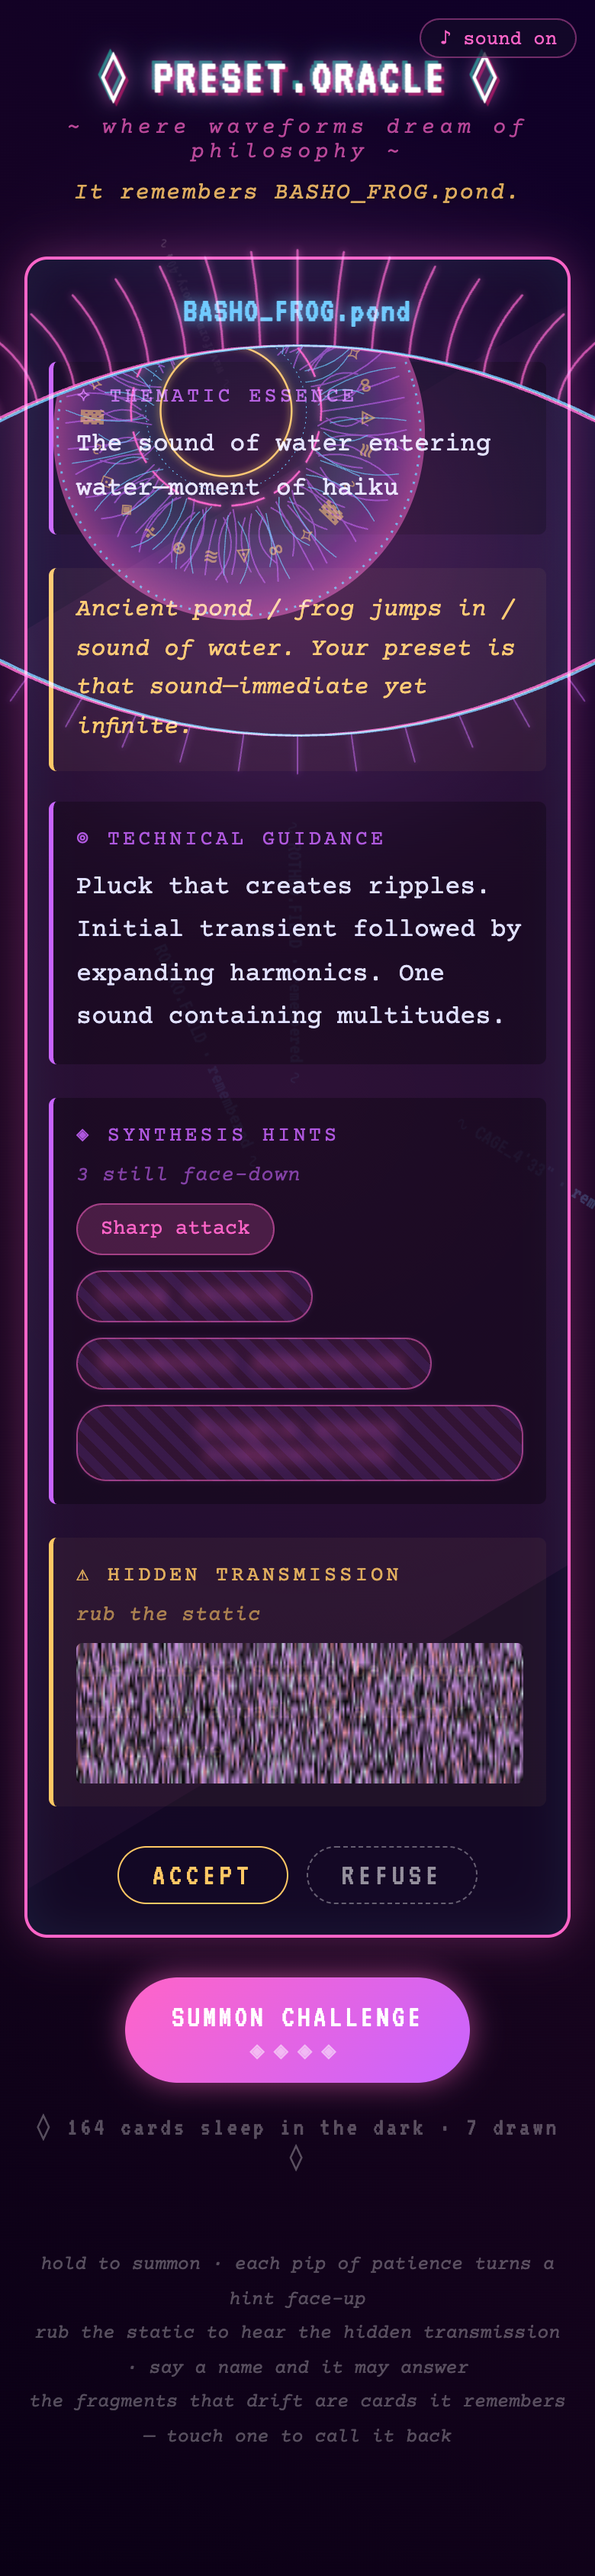
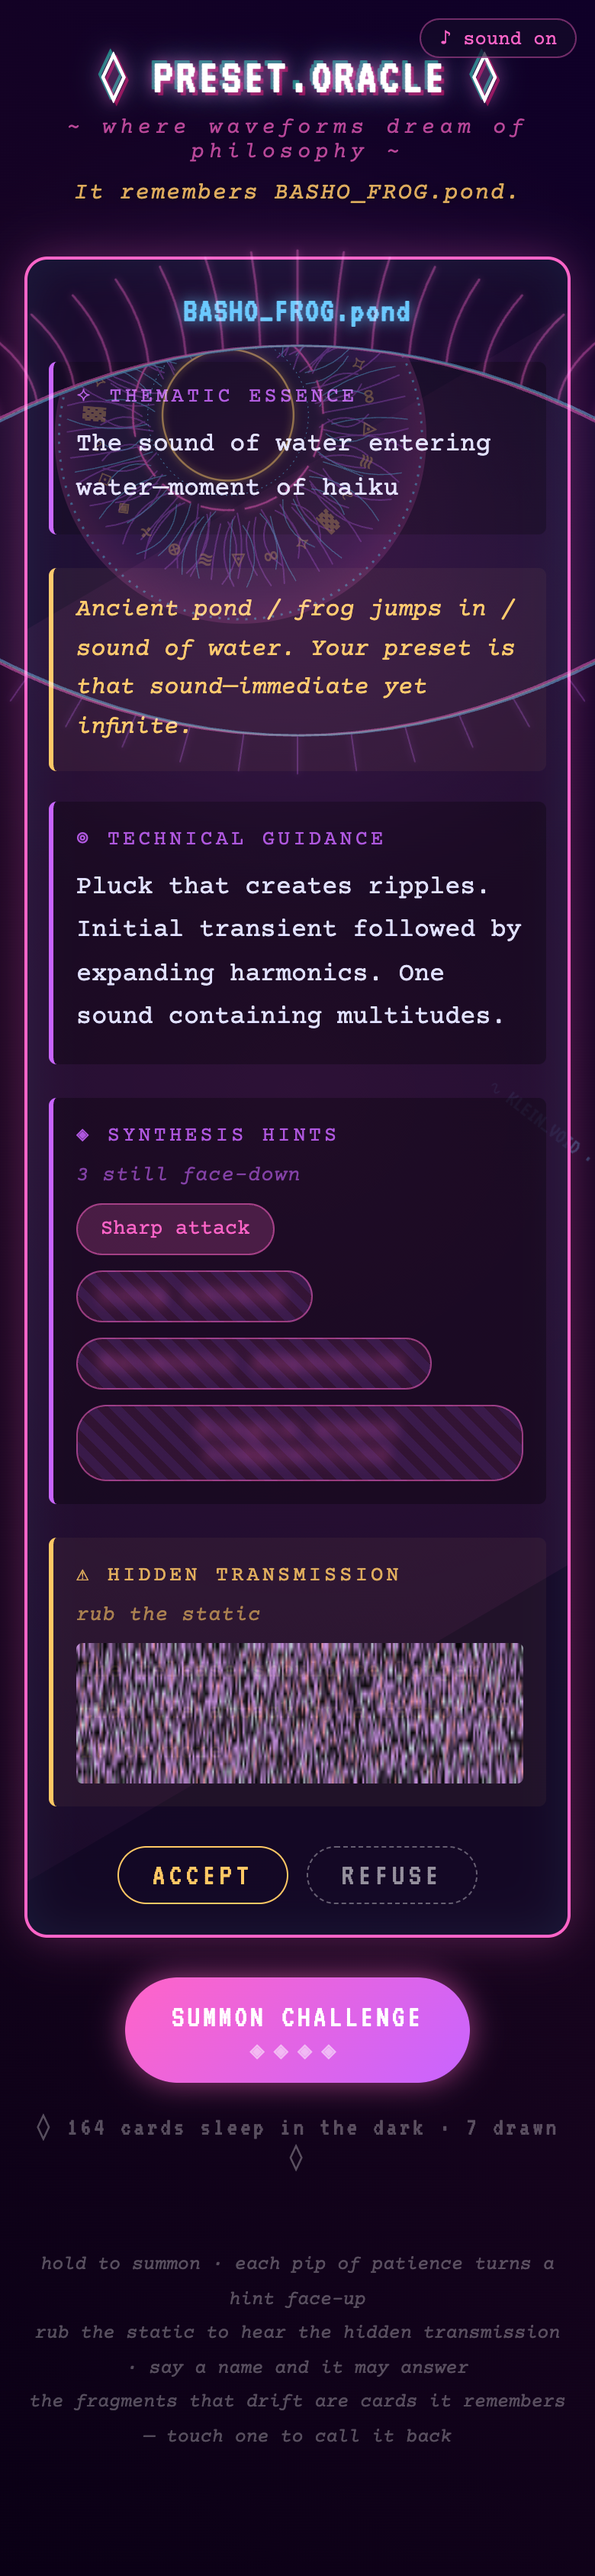
steward(Preset Oracle): the eye made more transparent: the layer at 55%, a lighter iris wash, a fainter doze
Palace-Kind: steward
Palace-Verify: verified
Palace-Author: claude

diff --git a/Projects/Preset Oracle/oracle/Preset Oracle — the oracle.html b/Projects/Preset Oracle/oracle/Preset Oracle — the oracle.html
@@ -57,10 +57,10 @@ body {
    hole — whatever the pointer rests on is seen through it, clear. */
 #bigeye {
   position: fixed; left: 50%; top: 47%; width: min(125vw, 1500px); height: auto; aspect-ratio: 2 / 1;
-  transform: translate(-50%, -50%); z-index: 900; pointer-events: none; mix-blend-mode: screen;
+  transform: translate(-50%, -50%); z-index: 900; pointer-events: none; mix-blend-mode: screen; opacity: .55;
   overflow: visible; transition: opacity 1.4s ease, filter 1.4s ease;
 }
-#bigeye.dozing { opacity: .35; filter: saturate(.4); }
+#bigeye.dozing { opacity: .2; filter: saturate(.4); }
 #bigeye.sulk { filter: hue-rotate(-40deg) saturate(1.6); }
 @media (max-width: 640px) { #bigeye { width: 175vw; top: 42%; } }
 .mood {
@@ -211,7 +211,7 @@ html, body, button, canvas, .hint-tag, .memory-fragment, .mute { cursor: none !i
   <defs>
     <radialGradient id="auraG"><stop offset="0" stop-color="#ff64c8" stop-opacity=".22"/><stop offset=".55" stop-color="#c864ff" stop-opacity=".08"/><stop offset="1" stop-color="#000" stop-opacity="0"/></radialGradient>
     <radialGradient id="scleraG" cx="0" cy="0" r="680" gradientUnits="userSpaceOnUse"><stop offset="0" stop-color="#64c8ff" stop-opacity="0"/><stop offset=".55" stop-color="#64c8ff" stop-opacity=".03"/><stop offset="1" stop-color="#c864ff" stop-opacity=".2"/></radialGradient>
-    <radialGradient id="irisG" cx="0" cy="0" r="250" gradientUnits="userSpaceOnUse"><stop offset=".3" stop-color="#64c8ff" stop-opacity=".04"/><stop offset=".55" stop-color="#64c8ff" stop-opacity=".16"/><stop offset=".8" stop-color="#c864ff" stop-opacity=".3"/><stop offset="1" stop-color="#ff64c8" stop-opacity=".5"/></radialGradient>
+    <radialGradient id="irisG" cx="0" cy="0" r="250" gradientUnits="userSpaceOnUse"><stop offset=".3" stop-color="#64c8ff" stop-opacity=".04"/><stop offset=".55" stop-color="#64c8ff" stop-opacity=".08"/><stop offset=".8" stop-color="#c864ff" stop-opacity=".16"/><stop offset="1" stop-color="#ff64c8" stop-opacity=".3"/></radialGradient>
     <clipPath id="almondClip"><path id="almondClipPath"/></clipPath>
     <mask id="holeMask" maskUnits="userSpaceOnUse" x="-700" y="-350" width="1400" height="700">
       <rect x="-700" y="-350" width="1400" height="700" fill="#fff"/><circle id="holeC" r="85" fill="#000"/>
